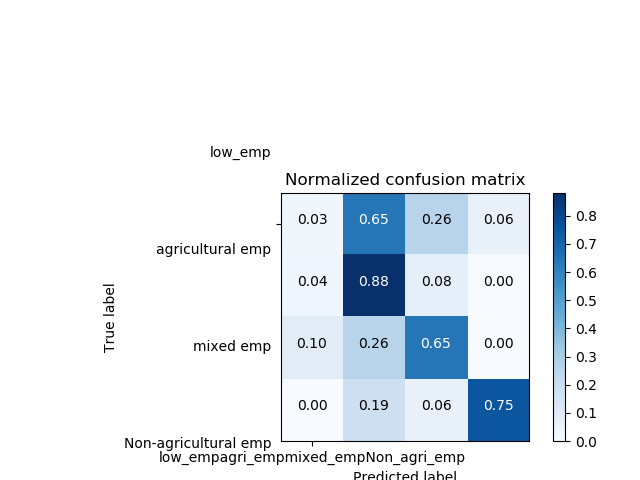
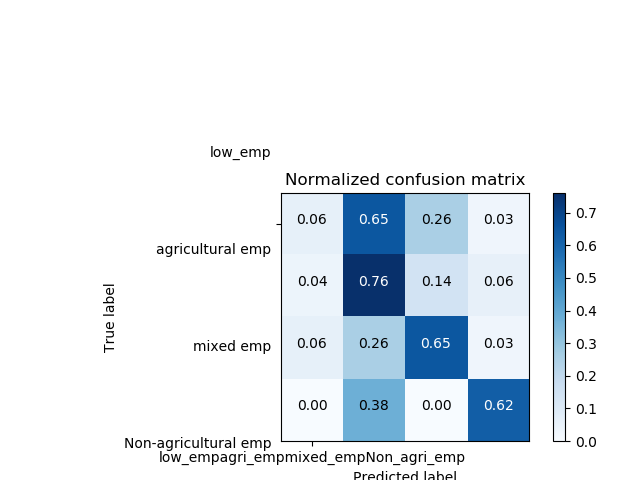
more plot added

diff --git a/classifier.py b/classifier.py
@@ -24,7 +24,9 @@ clf = RandomForestClassifier(bootstrap=True,max_depth=10, random_state=10)
 # var=np.var(x1,axis=0)
 # print(mean.shape)
 # var[var==0]=1
-g=open('mask/out_masked_64neg.csv')
+
+
+g=open('mask/out_unmasked64.csv')
 
 y=np.loadtxt("mask/EMP_data.txt")
 y=y[:,6]
@@ -32,7 +34,7 @@ y=y[:,6]
 y=y-11
 
 nl=g.read().split('\n')
-x=np.zeros((640,128))
+x=np.zeros((640,64))
 
 
 yvalues={0:0,1:1,2:2,3:3 }
